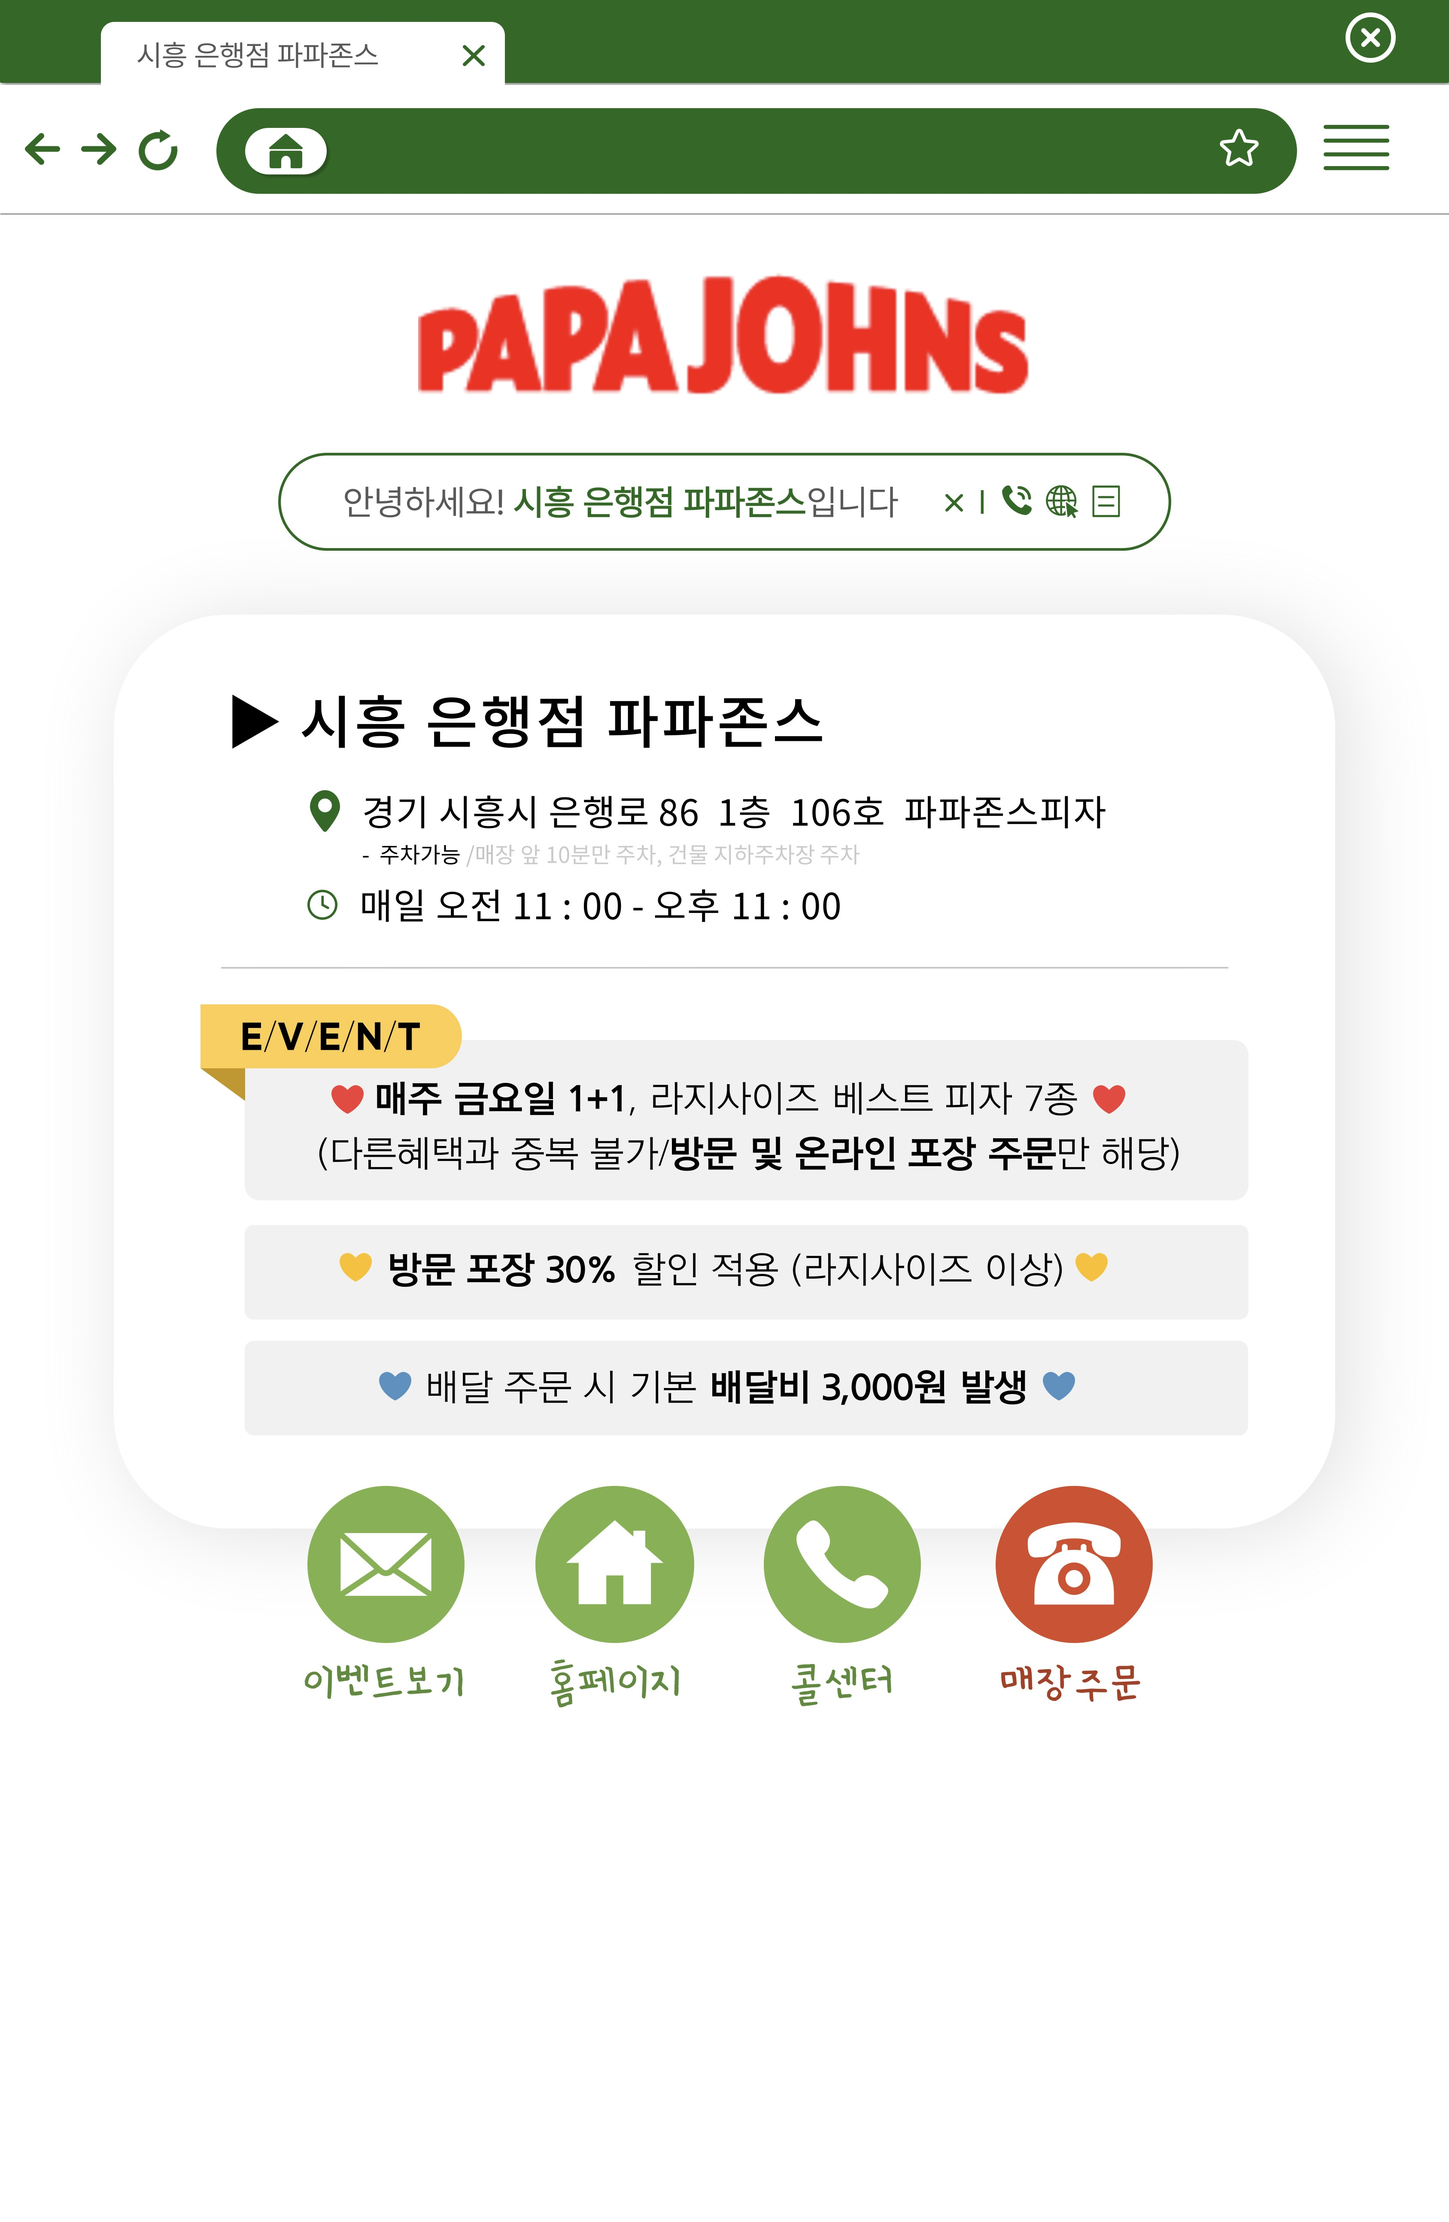
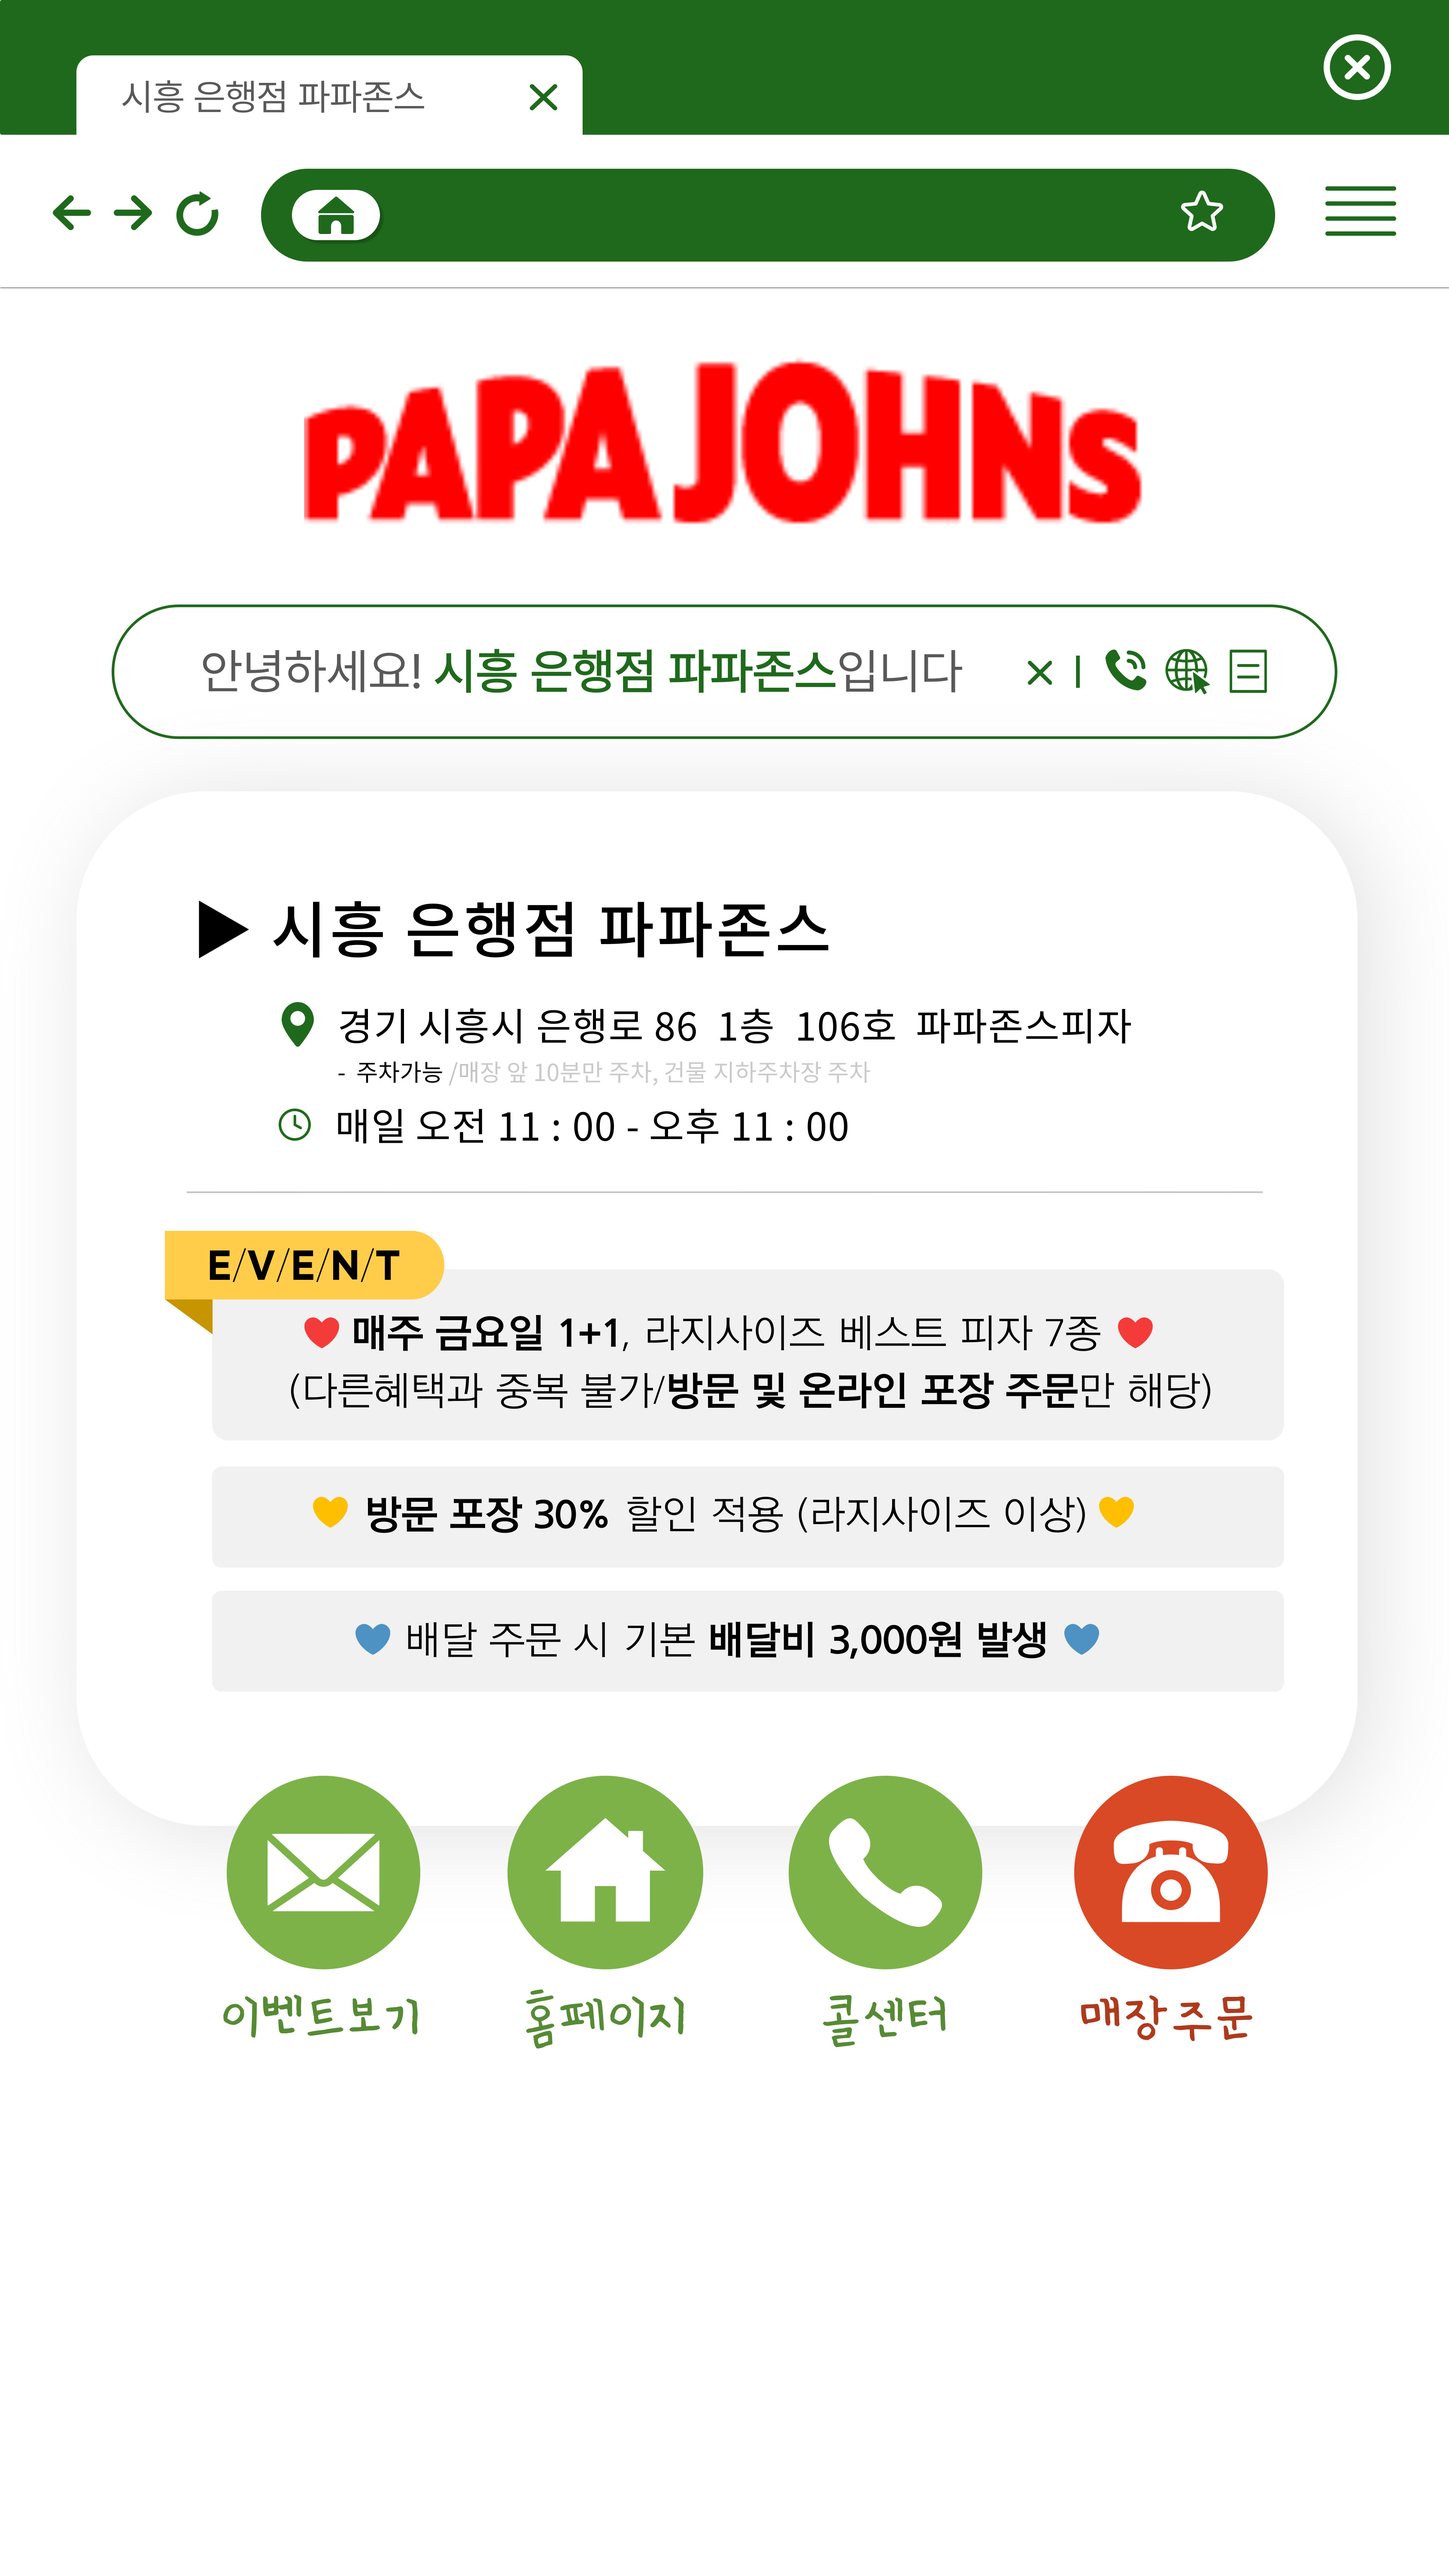
ㅎ

diff --git a/papa_eunhaeng _1/index.html b/papa_eunhaeng _1/index.html
@@ -5,31 +5,27 @@
 <meta name="viewport" content="width=device-width, initial-scale=1" />
 
 <style>
-html, body{
+body{
   margin:0;
   padding:0;
-  height:100%;
-  overflow:hidden; /* 세로 스크롤 없음 */
+  overflow-x:hidden;
   font-family:'Malgun Gothic','Apple SD Gothic Neo',-apple-system,sans-serif;
   background:#ffffff;
 }
 
-/* ===== 메인(index.jpeg 한 화면 꽉) ===== */
+/* ===== 메인 이미지(index.jpeg) ===== */
 .main-wrap{
   position:relative;
-  width:100%;
   max-width:600px;
-  height:100vh;      /* 현재 보이는 화면 기준 */
   margin:0 auto;
 }
 .main-wrap img.main-bg{
   width:100%;
-  height:100%;
-  object-fit:cover;  /* 첫 스샷처럼 꽉 채우기 */
+  height:auto;
   display:block;
 }
 
-/* ===== 아이콘 히트박스 (위치는 지금 딱 좋다고 한 위치) ===== */
+/* ===== 아이콘 히트박스 ===== */
 .icon-hitbox{
   position:absolute;
   display:block;
@@ -38,10 +34,11 @@ html, body{
   z-index:10;
 }
 
-.icon-event{ top:70%; left:14%; width:13%; height:8%; }
-.icon-home { top:70%; left:35%; width:13%; height:8%; }
-.icon-call { top:70%; left:56%; width:13%; height:8%; }
-.icon-store{ top:70%; left:77%; width:13%; height:8%; }
+/* 아이콘 위치 – index.jpeg 비율 기준 (지금 위치가 딱 좋다고 한 값) */
+.icon-event{ top:73%; left:14%; width:13%; height:8%; }
+.icon-home { top:73%; left:35%; width:13%; height:8%; }
+.icon-call { top:73%; left:56%; width:13%; height:8%; }
+.icon-store{ top:73%; left:77%; width:13%; height:8%; }
 
 /* ===== 배너 슬라이드 (자동 X, 손가락 슬라이드 O) ===== */
 .banner-box{
